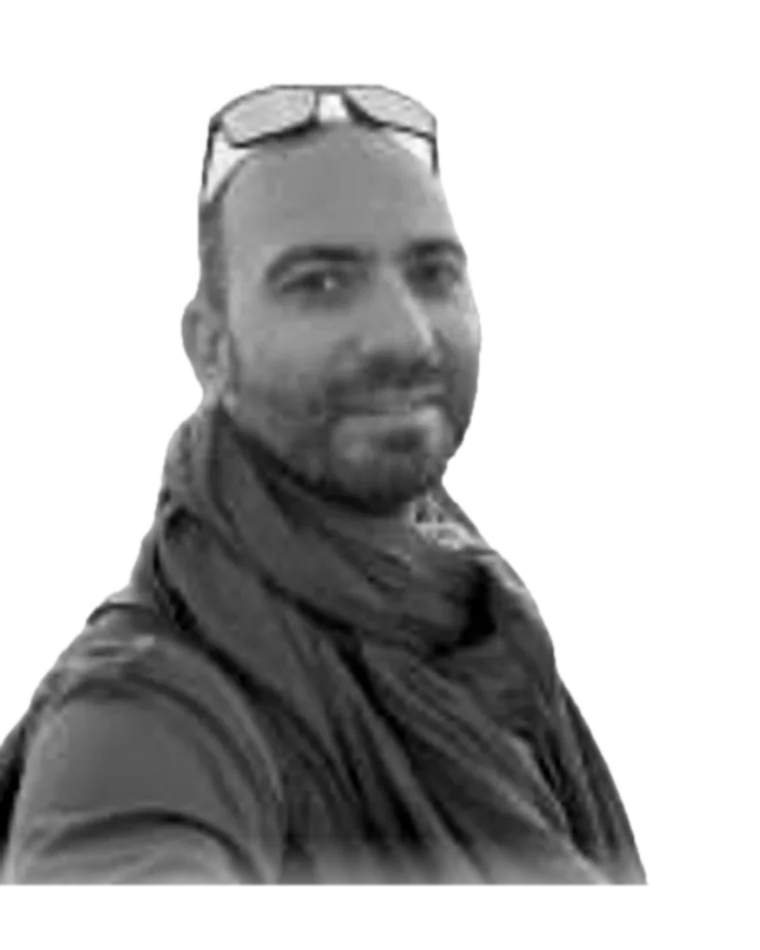
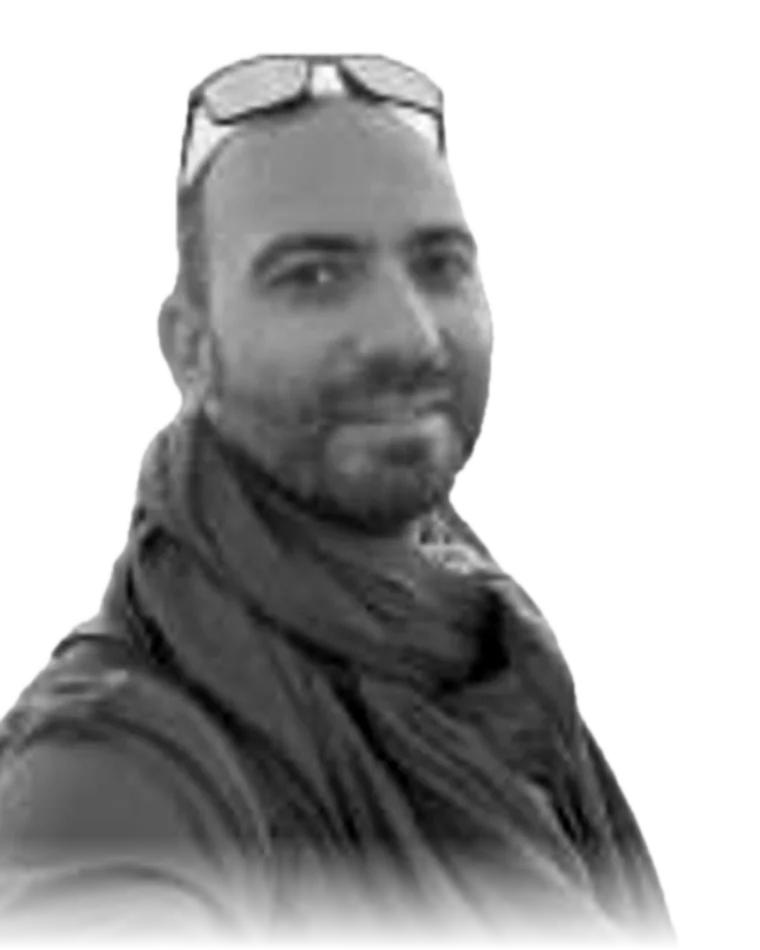
Speakers: Işık Kardelen bio, bottom-fit cutouts for Maya/Andrew/Yura, mobile filter overflow fix

Changed region(s): [[0.0, 0.0305, 0.8776, 1.0]]

diff --git a/src/pages/SpeakersPage.tsx b/src/pages/SpeakersPage.tsx
@@ -136,8 +136,8 @@ export const SPEAKERS_2026: Speaker2026[] = [
   },
   {
     name: 'Işık Kardelen',
-    role: 'Founder · TUNE Your Body & Mind · Yoga teacher RYT500',
-    bio: 'Istanbul-based yoga teacher (RYT500) and founder of TUNE Your Body & Mind and Yogazero.com. Brings a practical body reset to the nomad desk life — a short session on how to undo long hours of sitting, screens and travel. Full bio announced soon.',
+    role: 'Movement educator · Founder · TUNE Your Body & Mind',
+    bio: 'After 15 years in corporate technology, sales and business development, Işık turned her attention to a question modern working life often ignores: what happens to the body that has to live it? A Franklin Method® Educator, she explores the relationship between movement, functional anatomy, embodied awareness and human performance. At Türkiye Nomad Fest she guides a practical reset for bodies that work, travel and adapt to constantly changing environments — through gentle movement, tactile awareness and simple imagery, you practise a portable process for noticing what your body needs and adapting wherever you are. No special equipment, no perfect posture, no demanding routine. Because the future of work has a body.',
     format: 'keynote',
     formatLabel: 'Talk',
     talk: ['Talk · 30 min', 'The Nomad Body Reset.'],

diff --git a/src/styles/speakers.css b/src/styles/speakers.css
@@ -73,6 +73,10 @@
 .sp-filter button { appearance: none; border: 0; background: transparent; padding: 9px 18px; border-radius: 999px; font-family: var(--sans); font-weight: 600; font-size: 11.5px; letter-spacing: .12em; text-transform: uppercase; color: var(--ink-2); cursor: pointer; }
 .sp-filter button.active { background: var(--ink); color: var(--paper); }
 .sp-filter button:hover:not(.active) { color: var(--ink); }
+@media (max-width: 520px) {
+  .sp-filter { max-width: 100%; gap: 2px; overflow-x: auto; scrollbar-width: none; }
+  .sp-filter button { padding: 9px 11px; font-size: 10.5px; letter-spacing: .08em; }
+}
 
 .apply-card {
   background: var(--ink); color: var(--paper);
